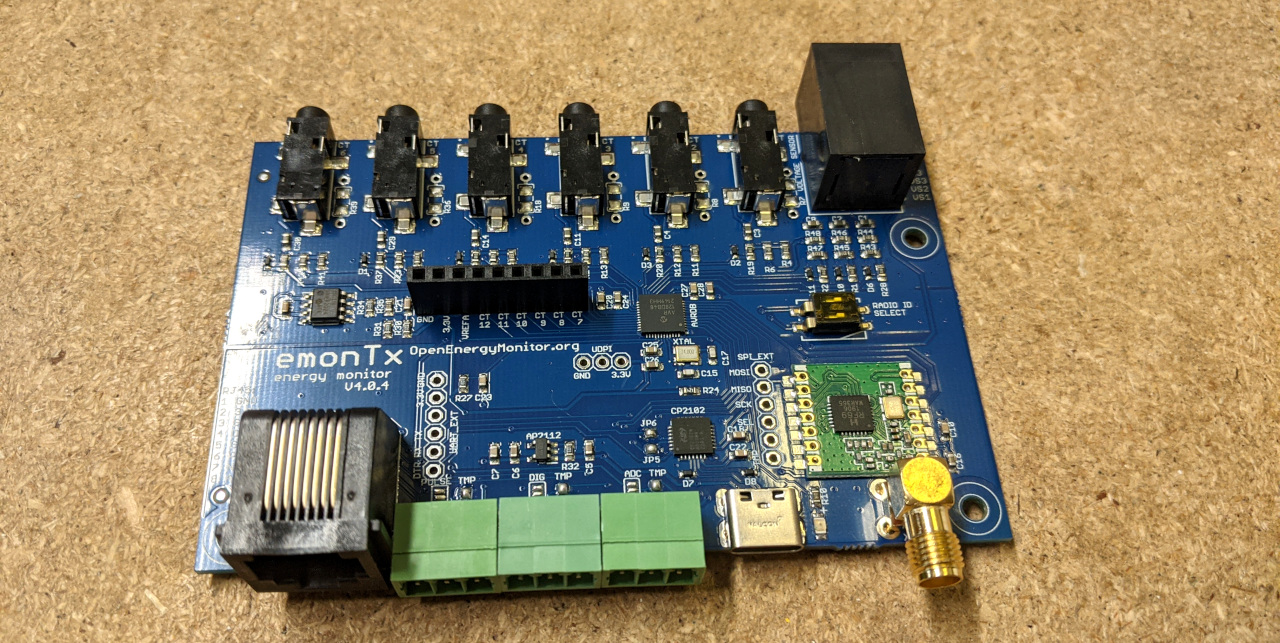
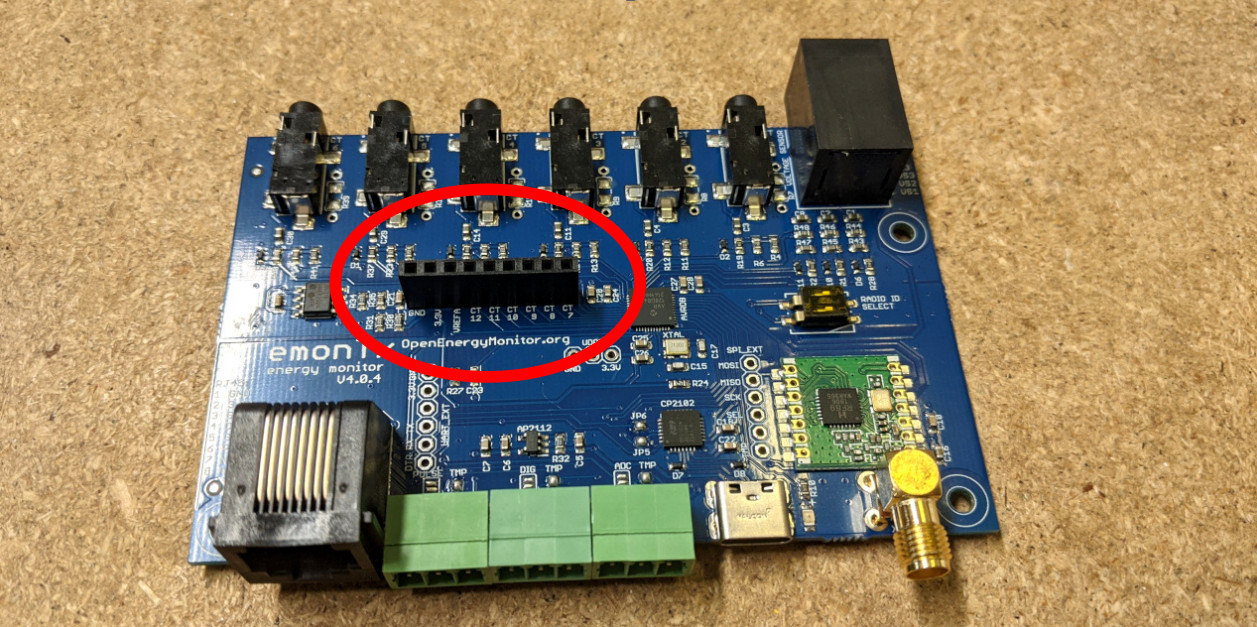
expansion board documentation

diff --git a/docs/6ct_expansion_board.md b/docs/6ct_expansion_board.md
@@ -1,10 +1,24 @@
 # 6 CT Expansion board
 
+The 6 CT Expansion board adds a further 6x CT inputs to the EmonTx4, giving a total of 12 CT inputs. These can be used with the new EmonLibDB based firmware that supports both single phase and 3 phase monitoring. Individual CT inputs can be configured for 12 single phase inputs or 4x 3 phase inputs. A custom mix of single and 3 phase inputs can also be configured by modifying the firmware and uploading firmware manual.
+
+## Installation guide
+
+**Upgrading:** If ordered seperately to the EmonTx4 the expansion board comes with a 12 CT fascia to replace the standard 6 CT version. A 9-way header is also included that needs to be soldered in place on the EmonTx4.
+
 ![](img/6CT/6ct_ext1.jpg)
+
+Place the 9 way header on the top side of the board as circled below:
 
 ![](img/6CT/6ct_ext2.jpg)
 
+Solder on the bottom side taking care not to bridge across the pins:
+
 ![](img/6CT/6ct_ext3.jpg)
+
+**Note:** The mechanical attachment of the expansion board is not very secure. It relies fully on the 9 way PCB header connection. Care needs to be taken when plugging in expansion board CTs as the board can flex on the header. This is something we plan to fix on future versions.
+
+We recommend connecting the CT sensors through the face plate, outside of the aluminium enclosure first and then attaching the face plate to the enclosure second. See second picture below.
 
 ![](img/6CT/6ct_ext4.jpg)
 
